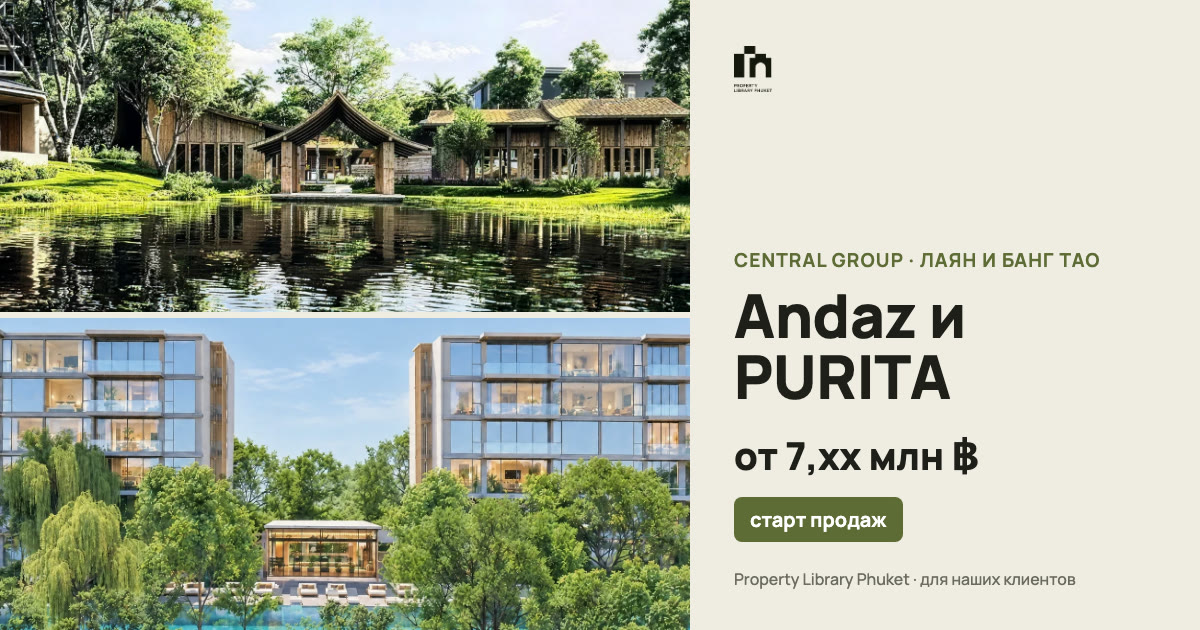
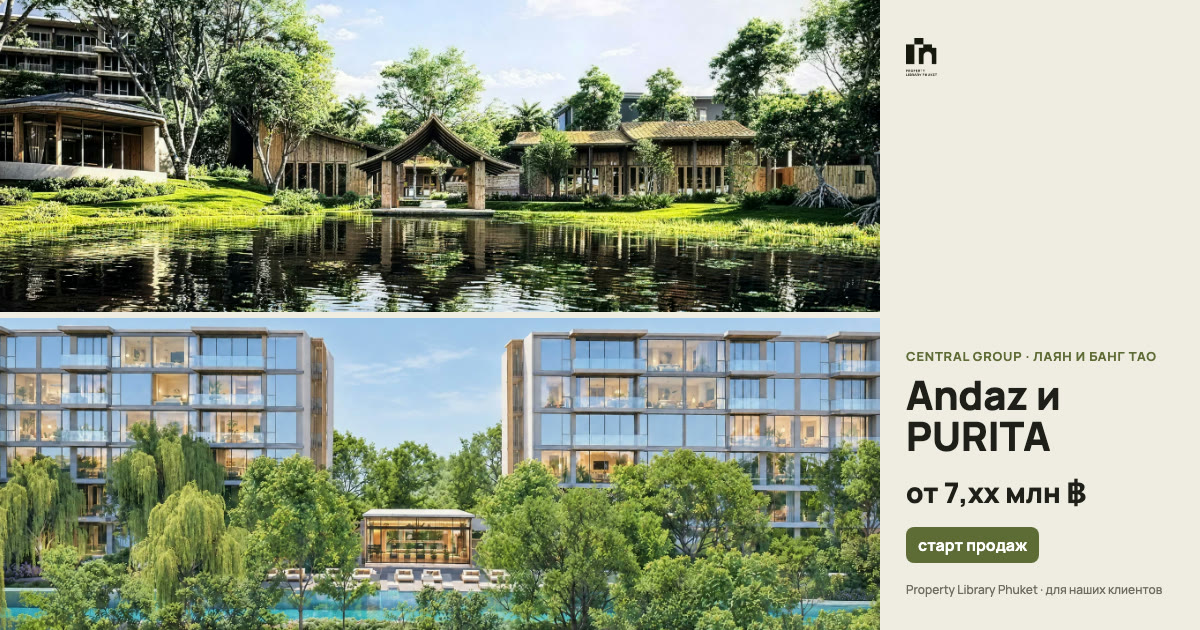
Превью Central Group: Andaz и PURITA целиком, без обрезки (Эльнур 10.10: «пурита обрезана, сделай нормальный вид»)
Claude-Session: https://claude.ai/code/session_01SDVj1ZCWZmKucUnhjULthi

diff --git a/cg-capital.html b/cg-capital.html
@@ -91,8 +91,8 @@
 <meta property="og:title" content="Central Group на Пхукете · Andaz и PURITA: старт продаж">
 <meta property="og:description" content="Andaz у пляжа Лаян от 16,xx млн ฿ и PURITA на Банг Тао от 7,xx млн ฿ от Central Group. Сроки, первые цены, как попасть в первую очередь.">
 <meta property="og:url" content="https://property-library.com/cg-capital">
-<meta property="og:image" content="https://property-library.com/offers/cg-capital/img/preview-v2.jpg">
-<meta property="og:image:secure_url" content="https://property-library.com/offers/cg-capital/img/preview-v2.jpg">
+<meta property="og:image" content="https://property-library.com/offers/cg-capital/img/preview-v3.jpg">
+<meta property="og:image:secure_url" content="https://property-library.com/offers/cg-capital/img/preview-v3.jpg">
 <meta property="og:image:type" content="image/jpeg">
 <meta property="og:image:width" content="1200">
 <meta property="og:image:height" content="630">
@@ -104,7 +104,7 @@
 <meta name="twitter:card" content="summary_large_image">
 <meta name="twitter:title" content="Property Library Phuket. Агентство недвижимости на Пхукете">
 <meta name="twitter:description" content="Подберём недвижимость для покупки или аренды на Пхукете. Всё под ключ — от первого звонка до заезда и получения дохода.">
-<meta name="twitter:image" content="https://property-library.com/offers/cg-capital/img/preview-v2.jpg">
+<meta name="twitter:image" content="https://property-library.com/offers/cg-capital/img/preview-v3.jpg">
 <meta name="twitter:image:alt" content="Property Library Phuket, недвижимость на Пхукете">
 
 <!-- JSON-LD: организация + сайт -->
